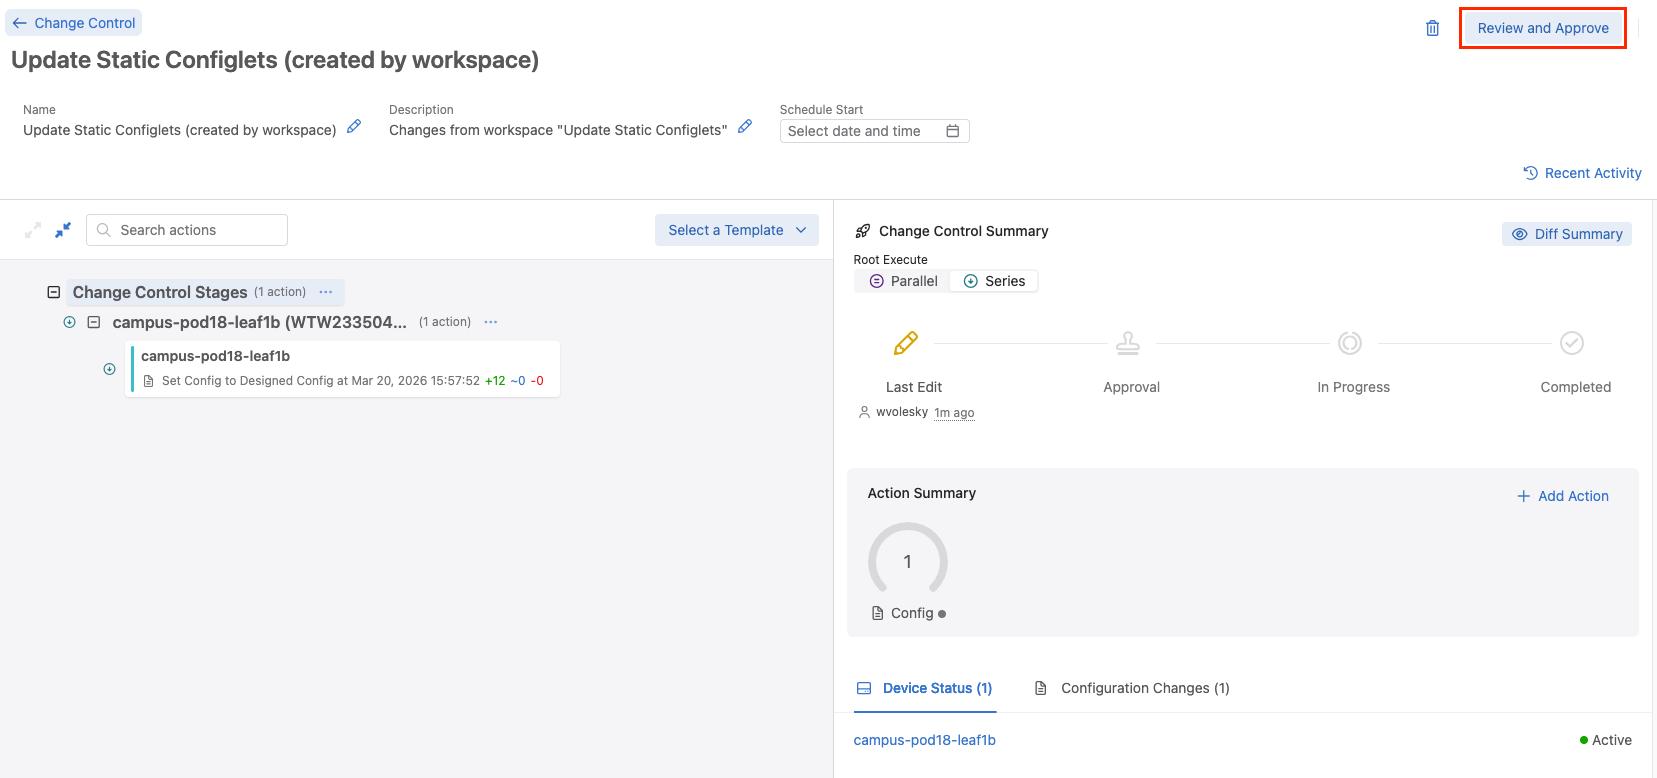
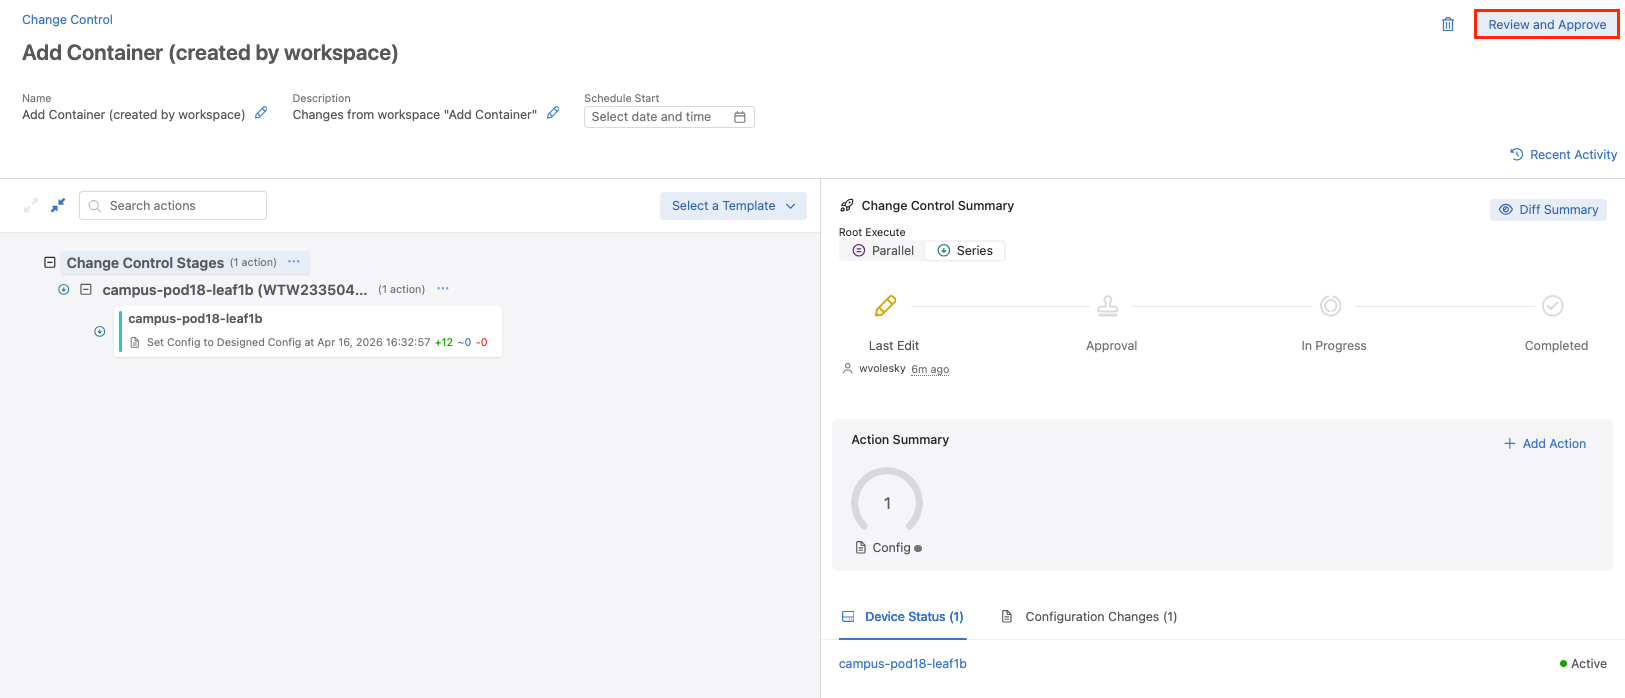
C Lab Guide Updates

diff --git a/Campus/2026_Campus_Workshop/C-04/2026_Campus_C-04_AGNI_Lab_Guide-EAP-TLS_Wired_Policy.md b/Campus/2026_Campus_Workshop/C-04/2026_Campus_C-04_AGNI_Lab_Guide-EAP-TLS_Wired_Policy.md
@@ -66,50 +66,45 @@
 ![image8](images/image8.png)
 ![image9](images/image9.png)
 
-Create a workspace to propose changes to the Network Infrastructure. A workspace acts as a sandbox where you can stage your configuration changes before deploying them.
-
-2. Click **Create a Workspace**, give it any name you would like and click **Create**.
-
-![image10](images/image10.png)
-![image11](images/image11.png)
-
-3. Launch the **Static Configuration Studios**
+2. Click on the **Static Configuration Studio**
 
 ![image14](images/image14.png)
 
-4. In the **Container Tree** window, to the right of **Static Configuration**, select **+ Add** and select **Device**.
+3. In the **Container Tree** window, to the right of **Static Configuration**, select **+ Add** and select **Device**.
 
 ![image15](images/image15.png)
 
-5. Select the radial button next to **campus-pod<xx>-leaf1b** and select **Add**
+4. Select the radial button next to **campus-pod<xx>-leaf1b** and select **Add**
 
 ![image16](images/image16.png)
 
-6. Under **Device Container**, **Device: campus-pod##-lead1b** will be selected, click on **+ Configlet** followed by **Configlet Library**.
+5. Under the **Device Container**, Select **Device: campus-pod##-lead1b**, click on **+ Configlet** followed by **Configlet Library**.
 
 ![image17](images/image17.png)
 
 7. Select the Configlet named **Studios-campus-pod<xx>-radsec-config** and click **Assign** to assign the configlet to the **campus-pod<xx>-leaf1b** switch.
 
+NOTE: **This will automatically create a Workspace.** 
+
 ![image18](images/image18.png)
 
-8. Click **Review Workspace** to review all the changes proposed to the CloudVision Studio
+8. The **Studios-campus-pod<xx>-radsec-config** configlet will be shown assign to the **campus-pod##-leaf1b switch**. 
 
-![image19](images/image19.png)
+![image18b](images/image18b.png)
 
-9. **Review** and **Submit the Workspace**
+9. In the **Workspace Island** at the bottom of the page, Click the **Review Workspace** icon in the **Add Container** Workspace to review the proposed changes.
 
-10. Review the workspace details showing the **Summary** of modified studios, the **Build Status**, and the **Proposed Configuration Changes** for each device.
+![image18a](images/image18a.png)
+
+10. Review the workspace details showing the **Summary** of Studios Modified, the **Build Status**, and the **Proposed Configuration Changes** for each device.
 
 11. Click **Submit Workspace**
 
-![image20](images/image20.png)
+![image19](images/image19.png)
 
 12. Click **View Change Control**
 
 ![image21](images/image21.png)
-
-**Review and Approve**, then **Approve and Execute** the Change Control to apply the configuration changes
 
 13. Click **Review and Approve**
 
